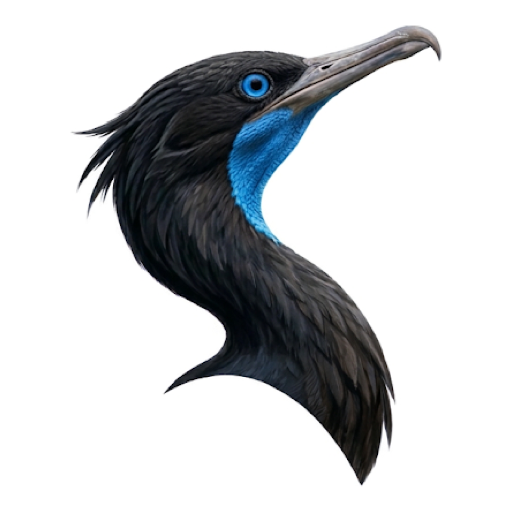
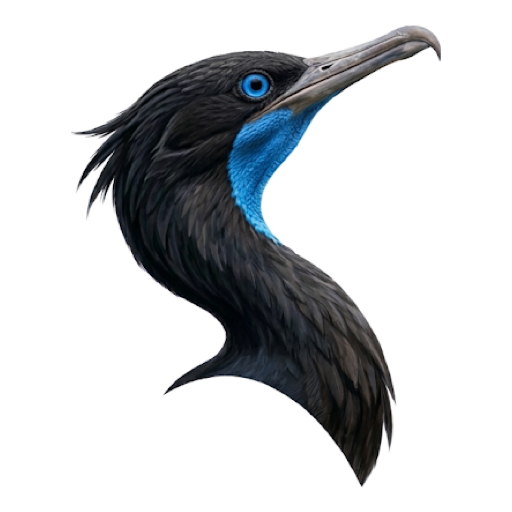
Launch screen: bird on Vialumi's background, handed off to the empty state
The launch screen (UILaunchScreen) shows the 128pt cormorant mark on
LaunchBackground, white / #030712 (Vialumi's background tokens). The
empty state uses the same asset, size and color, screen-centered at rest
and shown while tabs load, so launch hands off without a visible change.
With the search panel up, the mark centers between the status bar and the
panel's top edge, shrinking if that space is short; over the empty state
the panel's scrim is transparent (nothing to dim) but still dismisses.

App icons and favicons regenerated on the same palette: opaque light and
dark icons, edge matting fixed so the dark icon has no white fringe. The
site's tokens move to Vialumi's grays and cyan (light accent #008282 for
contrast), with hairline borders on the page panel and active nav tab.

diff --git a/assets/brand/make-icons.swift b/assets/brand/make-icons.swift
@@ -29,20 +29,39 @@ let w = src.width, h = src.height
 let ctx = rgbaContext(w, h)
 ctx.draw(src, in: CGRect(x: 0, y: 0, width: w, height: h))
 let p = ctx.data!.bindMemory(to: UInt8.self, capacity: w * h * 4)
+let rgb = (0..<(w * h * 3)).map { Double(p[$0 / 3 * 4 + $0 % 3]) / 255 }
+func channel(_ x: Int, _ y: Int, _ c: Int) -> Double { rgb[(y * w + x) * 3 + c] }
+func darkest(_ x: Int, _ y: Int) -> Int { (0..<3).min { channel(x, y, $0) < channel(x, y, $1) }! }
+// pure white -> 0, anything with a channel below ~0.82 -> 1
+var alpha = [Double](repeating: 0, count: w * h)
+for y in 6..<(h - 6) { for x in 6..<(w - 6) {   // the outer 6px are edge artifacts in the source
+    alpha[y * w + x] = max(0, min(1, (1 - channel(x, y, darkest(x, y))) / 0.18))
+}}
 var minX = w, minY = h, maxX = 0, maxY = 0
 for y in 0..<h { for x in 0..<w {
     let i = (y * w + x) * 4
-    let r = Double(p[i]) / 255, g = Double(p[i+1]) / 255, b = Double(p[i+2]) / 255
-    let lo = min(r, g, b)
-    var a = (1 - lo) / 0.18
-    if x < 6 || x >= w - 6 || y < 6 || y >= h - 6 { a = 0 }   // drop edge artifacts in the source          // pure white -> 0, anything with a channel below ~0.82 -> 1
-    a = max(0, min(1, a))
+    var a = alpha[y * w + x]
+    // Pixels on the silhouette's edge are part bird, part white. The 0.18 ramp above calls most of
+    // them opaque, which keeps their white and shows as a light outline on a dark background.
+    // Re-estimate their alpha against the darkest opaque pixel nearby, standing in for the bird's color.
+    // Only pixels near the background (alpha < 0.1) count, so light patches inside the bird (the beak) stay solid.
+    let onEdge = a > 0 && (-2...2).contains { dy in (-2...2).contains { dx in alpha[(y + dy) * w + x + dx] < 0.1 } }
+    if onEdge {
+        var best: (x: Int, y: Int)? = nil
+        for dy in -3...3 { for dx in -3...3 where alpha[(y + dy) * w + x + dx] == 1 {
+            let (nx, ny) = (x + dx, y + dy)
+            if best == nil || channel(nx, ny, darkest(nx, ny)) < channel(best!.x, best!.y, darkest(best!.x, best!.y)) { best = (nx, ny) }
+        }}
+        // Thin feather tips can have no solid pixel nearby; the plumage is near-black, so assume that.
+        let c = darkest(x, y), f = best.map { channel($0.x, $0.y, c) } ?? 0.15
+        a = min(a, max(0, min(1, (1 - channel(x, y, c)) / (1 - f))))
+    }
     if a < 0.02 { p[i] = 0; p[i+1] = 0; p[i+2] = 0; p[i+3] = 0; continue }
     // un-blend from white, then premultiply
     func un(_ c: Double) -> Double { max(0, min(1, (c - (1 - a)) / a)) }
-    p[i]   = UInt8((un(r) * a * 255).rounded())
-    p[i+1] = UInt8((un(g) * a * 255).rounded())
-    p[i+2] = UInt8((un(b) * a * 255).rounded())
+    p[i]   = UInt8((un(channel(x, y, 0)) * a * 255).rounded())
+    p[i+1] = UInt8((un(channel(x, y, 1)) * a * 255).rounded())
+    p[i+2] = UInt8((un(channel(x, y, 2)) * a * 255).rounded())
     p[i+3] = UInt8((a * 255).rounded())
     if a > 0.5 { minX = min(minX, x); maxX = max(maxX, x); minY = min(minY, y); maxY = max(maxY, y) }
 }}
@@ -92,14 +111,28 @@ func tile(_ size: Int, bg: (Double, Double, Double)?, scale: Double, grayscale: 
         }
         img = o.makeImage()!
     }
+    if bg != nil {
+        // App Store icons must not have an alpha channel.
+        let opaque = CGContext(data: nil, width: size, height: size, bitsPerComponent: 8, bytesPerRow: size * 4,
+                               space: CGColorSpace(name: CGColorSpace.sRGB)!,
+                               bitmapInfo: CGImageAlphaInfo.noneSkipLast.rawValue)!
+        opaque.draw(img, in: CGRect(x: 0, y: 0, width: size, height: size))
+        img = opaque.makeImage()!
+    }
     save(img, name)
 }
-let pane = (0xf7/255.0, 0xf9/255.0, 0xf9/255.0)
-let slate = (0x17/255.0, 0x23/255.0, 0x27/255.0)
-tile(1024, bg: pane,  scale: 0.78, name: "AppIcon.png")
-tile(1024, bg: slate, scale: 0.78, name: "AppIcon-dark.png")
+// Vialumi's background tokens (packages/ui theme.css): oklch(1 0 0) and oklch(0.13 0.028 261.692),
+// i.e. white and Tailwind gray-950. The app's LaunchBackground color uses the same pair.
+let light = (1.0, 1.0, 1.0)
+let dark = (0x03/255.0, 0x07/255.0, 0x12/255.0)
+tile(1024, bg: light, scale: 0.78, name: "AppIcon.png")
+tile(1024, bg: dark,  scale: 0.78, name: "AppIcon-dark.png")
 tile(1024, bg: nil,   scale: 0.78, grayscale: true, name: "AppIcon-tinted.png")
-tile(180, bg: pane, scale: 0.82, name: "apple-touch-icon.png")
+tile(180, bg: light, scale: 0.82, name: "apple-touch-icon.png")
 tile(64,  bg: nil,  scale: 0.96, name: "favicon-64.png")
 tile(32,  bg: nil,  scale: 1.0,  name: "favicon-32.png")
 tile(512, bg: nil,  scale: 0.9,  name: "cormorant-mark-512.png")
+// The launch screen and the blank tab: one 128pt mark, so the launch image hands off to the tab in place.
+tile(128, bg: nil, scale: 0.9, name: "CormorantMark.png")
+tile(256, bg: nil, scale: 0.9, name: "CormorantMark@2x.png")
+tile(384, bg: nil, scale: 0.9, name: "CormorantMark@3x.png")

diff --git a/apps/ios/Cormorant/Browser/BrowserView.swift b/apps/ios/Cormorant/Browser/BrowserView.swift
@@ -14,6 +14,9 @@ struct BrowserView: View {
     @State private var settingsAfterActions = false
     @State private var isSearching = false
     @State private var barHeight: CGFloat = 0
+    /// The search panel's top edge in global coordinates, once it has laid out; the empty state keeps
+    /// its mark above it.
+    @State private var searchPanelTop: CGFloat?
     @FocusState private var searchFocused: Bool
 
     var body: some View {
@@ -24,7 +27,8 @@ struct BrowserView: View {
                     .ignoresSafeArea(.container, edges: .bottom)
                     .ignoresSafeArea(.keyboard)
             }
-            if store.isLoaded, store.activeTab?.url == nil {
+            // Also while tabs load, so the launch screen's bird stays put until there's something to show.
+            if !store.isLoaded || store.activeTab?.url == nil {
                 emptyState
             }
             if let session = store.activeSession, let error = session.loadError {
@@ -80,7 +84,10 @@ struct BrowserView: View {
         .overlay {
             if isSearching {
                 SearchSheet(url: store.isComposingNewTab ? nil : store.activeTab?.url,
-                            isFocused: $searchFocused, onDismiss: dismissSearch)
+                            isFocused: $searchFocused, onDismiss: dismissSearch,
+                            dimsPage: store.activeTab?.url != nil,
+                            // Not from a panel still animating out after a dismiss.
+                            onPanelTopChange: { if isSearching { searchPanelTop = $0 } })
                     // Fresh text per tab and per intent (editing this page vs composing a new tab).
                     .id("\(store.state.activeTabID?.uuidString ?? "none")-\(store.isComposingNewTab)")
             }
@@ -178,23 +185,32 @@ struct BrowserView: View {
         store.loadFailure != nil || storageWarningPresented.wrappedValue
     }
 
-    /// No tabs (or a tab that hasn't loaded anything): a quiet wordmark in the upper quarter, clear of
-    /// the search panel and keyboard.
+    /// No tabs (or a tab that hasn't loaded anything): the launch screen's bird, same asset and size.
+    /// At rest it's centered on the whole screen, exactly where the launch screen drew it. With the
+    /// search panel up it centers in the space above the panel instead, shrinking if that's short.
     private var emptyState: some View {
-        VStack(spacing: 0) {
-            Spacer()
-            Text("Cormorant")
-                .font(.title.weight(.semibold))
-                .foregroundStyle(.tertiary)
+        // A reader rather than padding: it takes exactly the space offered, so a panel reaching the top
+        // of the screen (landscape, many rows) shrinks the mark to nothing instead of growing the view.
+        GeometryReader { proxy in
+            let frame = proxy.frame(in: .global)
+            let height = searchPanelTop.map { min(max(0, $0 - frame.minY), frame.height) } ?? frame.height
+            Image(.cormorantMark)
+                .resizable()
+                .scaledToFit()
+                .frame(maxWidth: 128, maxHeight: 128)
+                .padding(8)
                 .accessibilityHidden(true)
-            Spacer()
-            Spacer()
-            Spacer()
+                .accessibilityIgnoresInvertColors()
+                .frame(width: frame.width, height: height)
         }
-        .frame(maxWidth: .infinity, maxHeight: .infinity)
-        .background(Color(.systemBackground))
-        .ignoresSafeArea()
+        // Screen-centered like the launch screen until the panel has a position to sit above; then
+        // below the status bar.
+        .ignoresSafeArea(.container, edges: searchPanelTop == nil ? .all : .bottom)
+        .background(Color(.launchBackground).ignoresSafeArea())
+        .contentShape(.rect)
         .onTapGesture(perform: dismissSearch)
+        // Keeps pace with the panel (which rides the keyboard) so the mark never trails under it.
+        .animation(reduceMotion ? .easeOut(duration: 0.2) : .snappy(duration: 0.3), value: searchPanelTop)
     }
 
     // MARK: Presentation
@@ -210,6 +226,7 @@ struct BrowserView: View {
         store.cancelComposing()
         searchFocused = false
         isSearching = false
+        searchPanelTop = nil
     }
 
     private func presentActions() {

diff --git a/apps/site/src/styles/global.css b/apps/site/src/styles/global.css
@@ -2,9 +2,10 @@
 
 /*
   Cormorant design tokens.
-  Colors come from the bird: blue-black plumage, harbor-fog grey, and the
-  emerald eye as the single accent. The layout borrows the browser's own
-  chrome: a tinted window frame with a sidebar, and the page in an inset pane.
+  Colors are Vialumi's (vialumi/packages/ui theme.css), mapped by role: frame is
+  the sidebar, pane is the background, ink and muted are the foregrounds, line is
+  the border, accent is the primary. The layout borrows the browser's own chrome:
+  a window frame with a sidebar, and the page in an inset pane.
 */
 @theme {
   --font-sans: system-ui, -apple-system, 'Segoe UI', Roboto, sans-serif;
@@ -24,12 +25,14 @@
   --text-display--letter-spacing: -0.025em;
 
   /* Light palette; dark overrides below. */
-  --color-frame: #dfe5e6;
-  --color-pane: #f7f9f9;
-  --color-ink: #17262b;
-  --color-muted: #5b6b70;
-  --color-line: #c9d2d4;
-  --color-accent: #08745f;
+  --color-frame: oklch(0.985 0.002 247.839); /* #f9fafb */
+  --color-pane: oklch(1 0 0); /* #ffffff */
+  --color-ink: oklch(0.13 0.028 261.692); /* #030712 */
+  --color-muted: oklch(0.551 0.027 264.364); /* #6a7282 */
+  --color-line: oklch(0.928 0.006 264.531); /* #e5e7eb */
+  /* Vialumi's primary is oklch(0.55 0.22 194), outside sRGB and P3; browsers clip it to ~#009397,
+     3.7:1 on white. This is its gamut-mapped value, 4.6:1, so links pass AA. */
+  --color-accent: #008282;
 
   /* Radii have a hierarchy: the pane is the window, tabs sit inside it. */
   --radius-tab: 0.5rem;
@@ -38,12 +41,12 @@
 
 @media (prefers-color-scheme: dark) {
   :root {
-    --color-frame: #10191c;
-    --color-pane: #172327;
-    --color-ink: #e3eaea;
-    --color-muted: #8fa1a5;
-    --color-line: #2a3a3f;
-    --color-accent: #58c2a2;
+    --color-frame: oklch(0.21 0.034 264.665); /* #101828 */
+    --color-pane: oklch(0.13 0.028 261.692); /* #030712 */
+    --color-ink: oklch(0.985 0.002 247.839); /* #f9fafb */
+    --color-muted: oklch(0.707 0.022 261.325); /* #99a1af */
+    --color-line: oklch(1 0 0 / 10%);
+    --color-accent: oklch(0.78 0.22 194); /* #00d1d0 in sRGB */
   }
 }
 

diff --git a/apps/ios/Cormorant/Browser/SearchSheet.swift b/apps/ios/Cormorant/Browser/SearchSheet.swift
@@ -11,6 +11,10 @@ struct SearchSheet: View {
     let url: URL?
     var isFocused: FocusState<Bool>.Binding
     let onDismiss: () -> Void
+    /// False over the empty state: there's no page to dim, so the launch screen's background stays put.
+    var dimsPage = true
+    /// The panel's top edge in global coordinates, so the empty state can keep its mark above it.
+    var onPanelTopChange: (CGFloat) -> Void = { _ in }
 
     @State private var text = ""
     @State private var selection: TextSelection?
@@ -28,6 +32,8 @@ struct SearchSheet: View {
             scrim
             panel
                 .offset(y: dragOffset)
+                // Outside the drag offset: where the panel rests, not where a finger holds it.
+                .onGeometryChange(for: CGFloat.self) { $0.frame(in: .global).minY } action: { onPanelTopChange($0) }
                 .transition(reduceMotion ? .opacity : .move(edge: .bottom).combined(with: .opacity))
         }
         .onAppear {
@@ -47,7 +53,7 @@ struct SearchSheet: View {
 
     /// Dims the page; a tap anywhere on it closes the panel.
     private var scrim: some View {
-        Color(white: 0, opacity: 0.24)
+        Color(white: 0, opacity: dimsPage ? 0.24 : 0)
             .ignoresSafeArea()
             .contentShape(.rect)
             .onTapGesture(perform: onDismiss)

diff --git a/assets/brand/README.md b/assets/brand/README.md
@@ -9,4 +9,11 @@
 swift assets/brand/make-icons.swift assets/brand/cormorant-head-source.png /tmp/icons
 ```
 
-Then copy `AppIcon*.png` into `apps/ios/Cormorant/Assets.xcassets/AppIcon.appiconset/` (strip alpha from the light and dark ones) and `favicon-*.png` / `apple-touch-icon.png` into `apps/site/public/`.
+Then copy:
+
+- `AppIcon*.png` into `apps/ios/Cormorant/Assets.xcassets/AppIcon.appiconset/` (the light and dark ones are written without alpha, as the App Store requires)
+- `CormorantMark*.png` into `apps/ios/Cormorant/Assets.xcassets/CormorantMark.imageset/` (the launch screen and the blank tab share it, at 128pt)
+- `cormorant-mark-512.png` and `cormorant-head.png` into this folder
+- `favicon-*.png` and `apple-touch-icon.png` into `apps/site/public/`
+
+The icon backgrounds are Vialumi's white and gray-950 (`#030712`). They must match the `LaunchBackground` color in the asset catalog: the launch screen is that color with the mark centered, and iOS grows the icon into it on launch.
